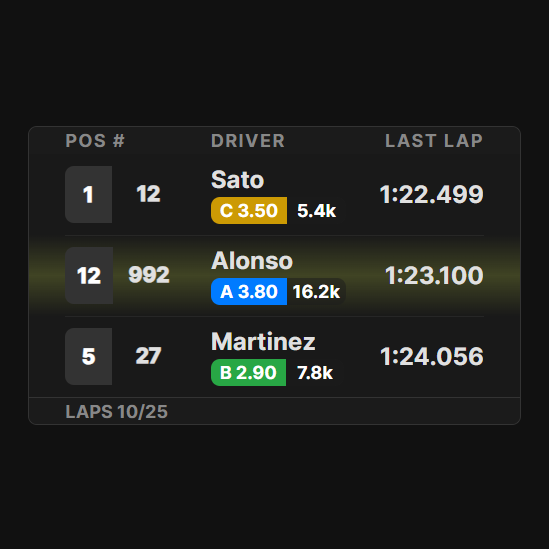
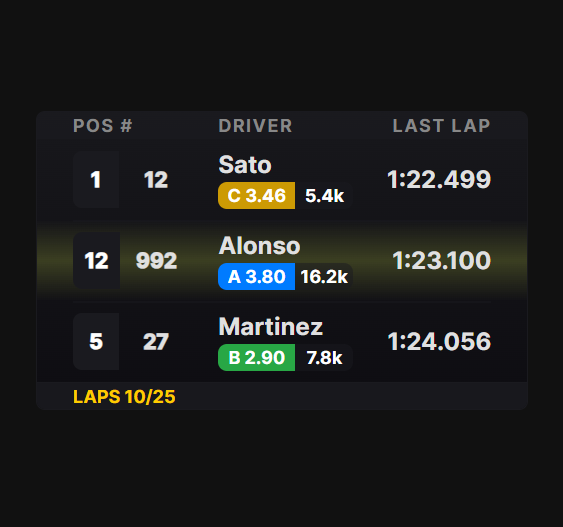
style(css): update CSS colors and gradients

diff --git a/frontend/static/css/overlays/leaderboard.css b/frontend/static/css/overlays/leaderboard.css
@@ -10,7 +10,7 @@
   border: 1px solid var(--m3-outline-variant);
   overflow: clip;
   height: calc(18px + (var(--row-height) * 3) + 18px);
-  background: rgba(var(--m3-surface), 0.8);
+  background: var(--m3-surface-gradient);
   display: grid;
   grid-template-rows: 18px 54px 54px 54px 18px;
 }
@@ -74,7 +74,7 @@
   height: 18px;
   padding: 0 var(--pad-4);
   background: rgba(var(--m3-surface), 0.85);
-  color: #888;
+  color: #FFCC00;
   font-size: var(--fs-label);
   text-transform: uppercase;
   border-top: 1px solid var(--m3-outline-variant);
@@ -90,7 +90,7 @@
 }
 
 .pos-car-badge .pos {
-  background: #333;
+  background: #1A1A1F;
   display: flex;
   align-items: center;
   justify-content: center;
@@ -161,6 +161,7 @@
 }
 .lic {
   padding: 2px 6px;
+  width: 40px;
   display: flex;
   align-items: center;
   justify-content: center;

diff --git a/frontend/static/css/overlays/base.css b/frontend/static/css/overlays/base.css
@@ -1,7 +1,13 @@
 :root {
-    --m3-surface: 27, 27, 27;
+    --m3-surface: 26, 26, 31;
+    --m3-surface-gradient: linear-gradient(
+        to bottom,
+        rgba(26, 26, 31, 0.8) 0%,
+        rgba(13, 12, 18, 0.8) 100%
+    );
+
     --m3-on-surface: #e0e0e0;
-    --m3-outline-variant: #333;
+    --m3-outline-variant: #1A1A1F;
 
     --m3-radius-lg: 6px;
     --m3-radius-pill: 6px;
